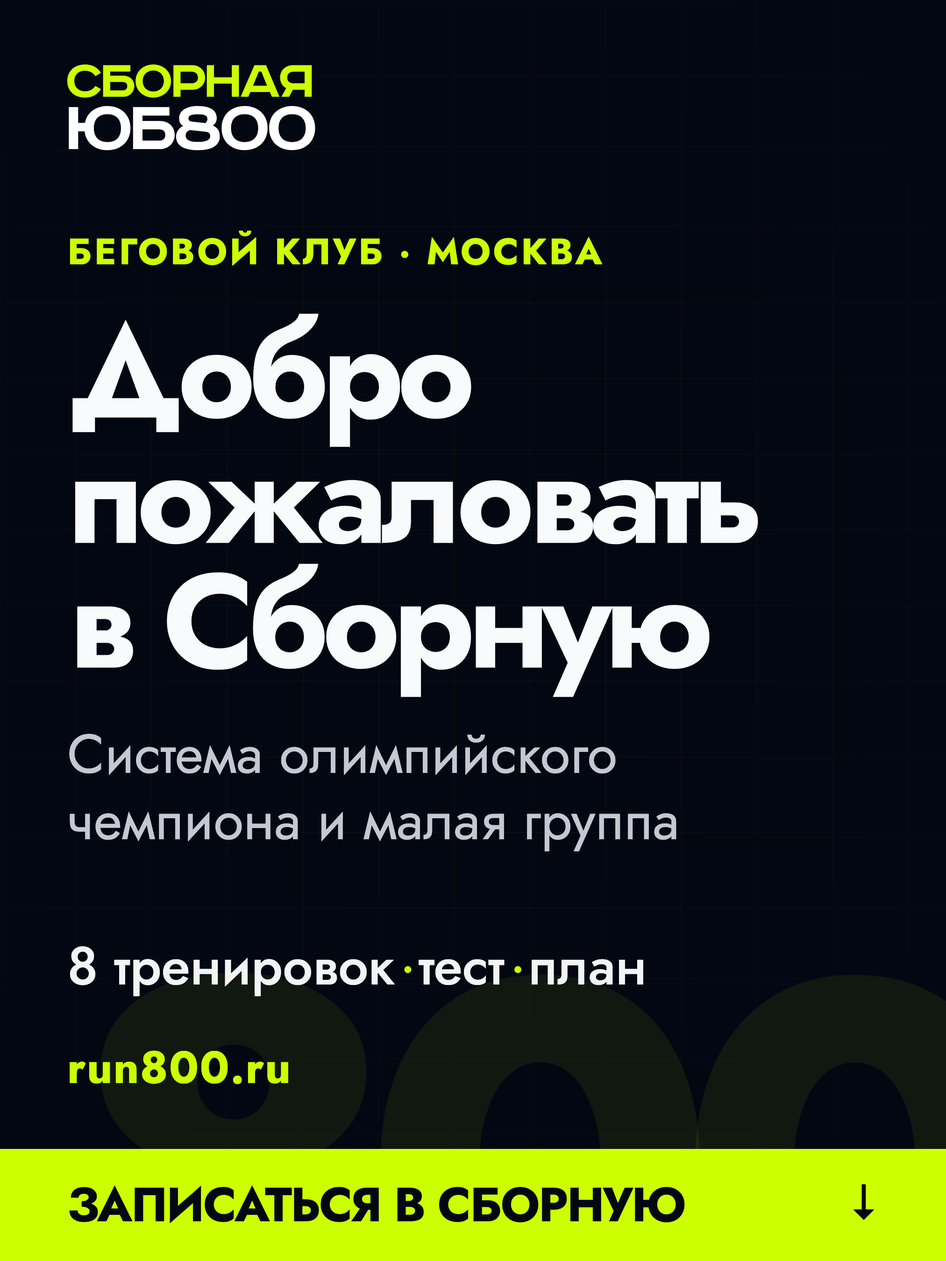
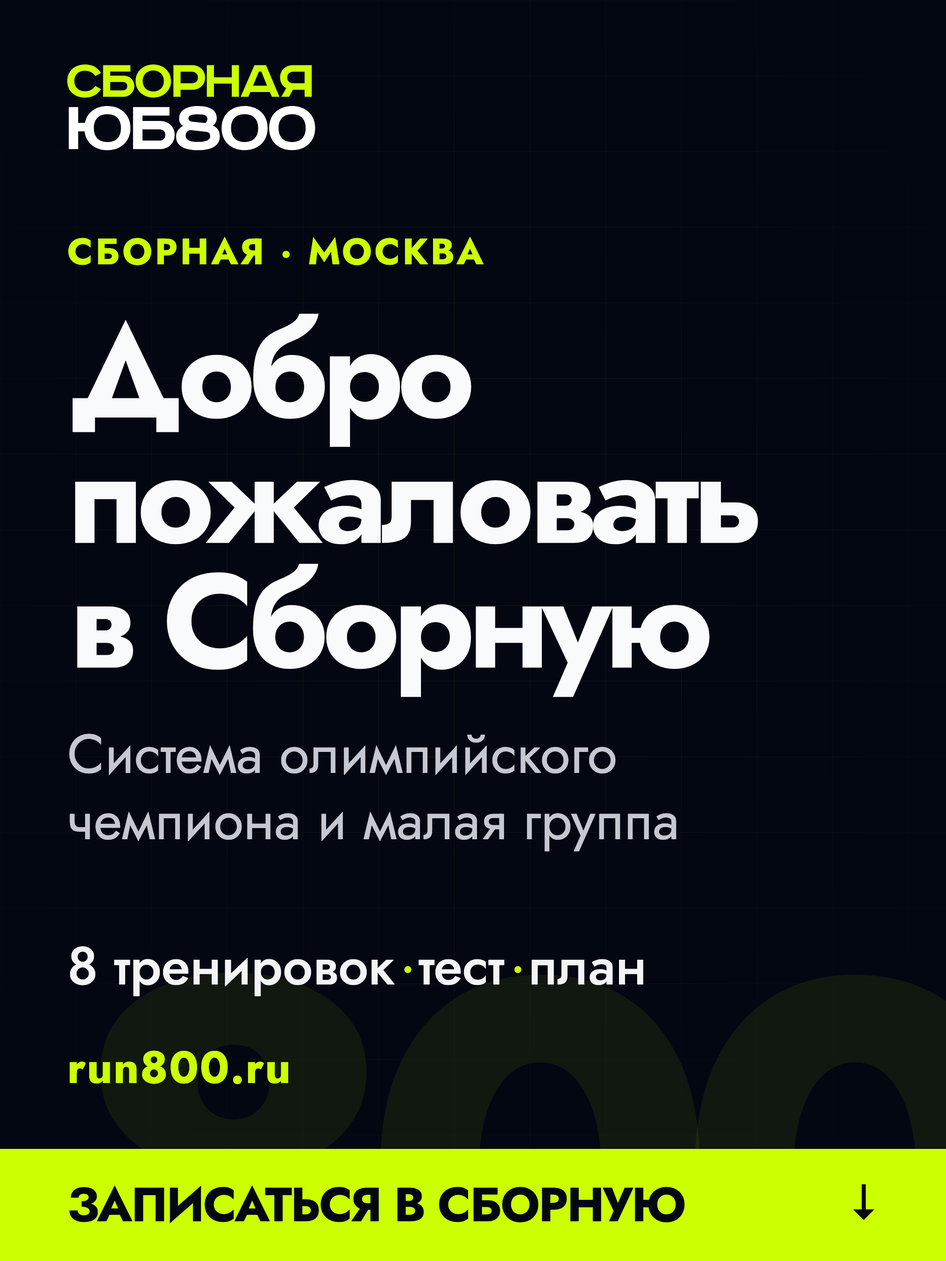
Remove running club wording from brand and docs

Changed region(s): [[0.0622, 0.1867, 0.6533, 0.2178]]

diff --git a/landing/qr-open-run.html b/landing/qr-open-run.html
@@ -123,7 +123,7 @@
   </style>
 </head>
 <body>
-  <p class="eyebrow">ЮБ800 · беговой клуб</p>
+  <p class="eyebrow">ЮБ800 · Сборная</p>
   <h1>21 ноября.<br>Москва</h1>
   <p class="lead">Открытая тренировка для всех: новичков, любителей и опытных. 3–5 км в своём темпе</p>
 

diff --git a/brand/_archive/wordmark-v2/build_wordmark.py b/brand/_archive/wordmark-v2/build_wordmark.py
@@ -49,7 +49,7 @@ def glyph_paths(text, font_path, cap_height, tracking=0):
 
 
 DESC, DESC_WIDTH = glyph_paths(
-    "БЕГОВОЙ КЛУБ ЮРИЯ БОРЗАКОВСКОГО", ARIAL, 10, 2.2
+    "СБОРНАЯ ЮРИЯ БОРЗАКОВСКОГО", ARIAL, 10, 2.2
 )
 
 
@@ -84,7 +84,7 @@ def wordmark(main, accent):
 
 def horizontal(main, accent, desc_color, bg=None):
     bg_rect = f'<rect width="520" height="160" fill="{bg}"/>' if bg else ""
-    return f'''<svg xmlns="http://www.w3.org/2000/svg" width="520" height="160" viewBox="0 0 520 160" role="img" aria-label="ЮБ800 — беговой клуб Юрия Борзаковского">
+    return f'''<svg xmlns="http://www.w3.org/2000/svg" width="520" height="160" viewBox="0 0 520 160" role="img" aria-label="ЮБ800 — Сборная Юрия Борзаковского">
 {bg_rect}
 <g transform="translate(8 8)">{wordmark(main, accent)}</g>
 <g transform="translate(8 132)"><path d="{DESC}" fill="{desc_color}"/></g>
@@ -101,7 +101,7 @@ def compact(main, accent, bg=None):
 
 def stacked(main, accent, desc_color, bg=None):
     bg_rect = f'<rect width="320" height="270" fill="{bg}"/>' if bg else ""
-    return f'''<svg xmlns="http://www.w3.org/2000/svg" width="320" height="270" viewBox="0 0 320 270" role="img" aria-label="ЮБ800 — беговой клуб Юрия Борзаковского">
+    return f'''<svg xmlns="http://www.w3.org/2000/svg" width="320" height="270" viewBox="0 0 320 270" role="img" aria-label="ЮБ800 — Сборная Юрия Борзаковского">
 {bg_rect}
 <g fill="none" stroke-linecap="round" stroke-linejoin="round" stroke-width="16">
   <g transform="translate(48 8)">{yu_b(main)}</g>

diff --git a/brand/_archive/logo-v1/build_logo.py b/brand/_archive/logo-v1/build_logo.py
@@ -52,7 +52,7 @@ def glyph_paths(text, font_path, cap_height, tracking=0):
 
 WORD, WORD_WIDTH = glyph_paths("Б800", ARIAL_BLACK, 100, -2)
 DESC, DESC_WIDTH = glyph_paths(
-    "БЕГОВОЙ КЛУБ ЮРИЯ БОРЗАКОВСКОГО", ARIAL, 10, 2.2
+    "СБОРНАЯ ЮРИЯ БОРЗАКОВСКОГО", ARIAL, 10, 2.2
 )
 
 
@@ -67,7 +67,7 @@ def mark(color, x=0, y=0, scale=1):
 
 def horizontal(mark_color, text_color, desc_color, bg=None):
     bg_rect = f'<rect width="580" height="160" fill="{bg}"/>' if bg else ""
-    return f'''<svg xmlns="http://www.w3.org/2000/svg" width="580" height="160" viewBox="0 0 580 160" role="img" aria-label="ЮБ800 — беговой клуб Юрия Борзаковского">
+    return f'''<svg xmlns="http://www.w3.org/2000/svg" width="580" height="160" viewBox="0 0 580 160" role="img" aria-label="ЮБ800 — Сборная Юрия Борзаковского">
 {bg_rect}
 {mark(mark_color)}
 <g transform="translate(140 0)">
@@ -92,7 +92,7 @@ def compact(mark_color, text_color, bg=None):
 
 def vertical(mark_color, text_color, desc_color, bg=None):
     bg_rect = f'<rect width="320" height="250" fill="{bg}"/>' if bg else ""
-    return f'''<svg xmlns="http://www.w3.org/2000/svg" width="320" height="250" viewBox="0 0 320 250" role="img" aria-label="ЮБ800 — беговой клуб Юрия Борзаковского">
+    return f'''<svg xmlns="http://www.w3.org/2000/svg" width="320" height="250" viewBox="0 0 320 250" role="img" aria-label="ЮБ800 — Сборная Юрия Борзаковского">
 {bg_rect}
 {mark(mark_color, 100, 0)}
 <g transform="translate(28 150) scale(0.7)">

diff --git a/DECISIONS.md b/DECISIONS.md
@@ -176,7 +176,7 @@
 
 ## 2026-10-22 — обновлённая версия логотипа
 
-**Решение:** повторно заменить логотип на актуальный `Temp/run logo.svg` (изменён 22.10, 12:20): двухстрочный лок-ап «БЕГОВОЙ КЛУБ» + «ЮБ800» без трековой эмблемы, SVG 347×112. Файл — `landing/assets/logo.svg`; высоты остались 36/40 px в шапке и 40 px в подвале. Старая версия с треком больше не используется на сайте.
+**Решение:** повторно заменить логотип на актуальный `Temp/run logo.svg` (изменён 22.10, 12:20): двухстрочный лок-ап с прежней верхней надписью и «ЮБ800», без трековой эмблемы, SVG 347×112. Файл — `landing/assets/logo.svg`; высоты остались 36/40 px в шапке и 40 px в подвале. Старая версия с треком больше не используется на сайте.
 
 **Почему:** владелец попросил заменить лого ещё раз на новый файл из `Temp`.
 
@@ -184,7 +184,7 @@
 
 ## 2026-10-22 — новый логотип сайта
 
-**Решение:** заменить wordmark в шапке и подвале на новый лок-ап из `Temp/run logo.svg`: «БЕГОВОЙ КЛУБ» сверху, «ЮБ800» и трековая эмблема. Файл лежит в `landing/assets/logo.svg`; отдельная подпись «беговой клуб» удалена. Высота: 36 px в шапке на мобильном, 40 px на десктопе, 40 px в подвале.
+**Решение:** заменить wordmark в шапке и подвале на новый лок-ап из `Temp/run logo.svg`: прежняя верхняя надпись, «ЮБ800» и трековая эмблема. Файл лежит в `landing/assets/logo.svg`; отдельная подпись удалена. Высота: 36 px в шапке на мобильном, 40 px на десктопе, 40 px в подвале.
 
 **Почему:** прямое требование владельца — поставить актуальный логотип из `Temp`.
 
@@ -264,7 +264,7 @@
 
 ## 2026-10-19 — сетка, фон, футер, якоря, scroll reveal
 
-**Решение:** фото в «Тренировки по всей Москве» заполняет контейнер по высоте и центрируется. Блок цифр получил симметричные отступы 40 сверху/снизу, сетку в контейнере, выравнивание по content band и gap 40. Фон «Кто будет рядом» использует затемнение 0.78–0.9 как «Под вашу цель». Форма заявки растянута по высоте левого контента. Футер перестроен на всю ширину: жёлтый «ЮБ800», рядом «БЕГОВОЙ КЛУБ», второй строкой «Юрия Борзаковского», меню и юртекст по краям. Пункт «Локация» заменён на «Тренировки», секция получила `id="training"`, hash-якоря проверены. Добавлен RND Lab-style scroll reveal: fade-up 26px, 0.8s, stagger 0.1s, IntersectionObserver, reduced-motion без анимации.
+**Решение:** фото в «Тренировки по всей Москве» заполняет контейнер по высоте и центрируется. Блок цифр получил симметричные отступы 40 сверху/снизу, сетку в контейнере, выравнивание по content band и gap 40. Фон «Кто будет рядом» использует затемнение 0.78–0.9 как «Под вашу цель». Форма заявки растянута по высоте левого контента. Футер перестроен на всю ширину: жёлтый «ЮБ800», рядом «СБОРНАЯ», второй строкой «Юрия Борзаковского», меню и юртекст по краям. Пункт «Локация» заменён на «Тренировки», секция получила `id="training"`, hash-якоря проверены. Добавлен RND Lab-style scroll reveal: fade-up 26px, 0.8s, stagger 0.1s, IntersectionObserver, reduced-motion без анимации.
 
 **Почему:** запрос владельца.
 
@@ -320,7 +320,7 @@
 
 ## 2026-10-19 — чистый фон стадиона и футер
 
-**Решение:** из `bg-stadium.svg` убраны футбольное поле и вертикальные линии с номерами 1-8; остались овал и дорожки. В футере убраны «Москва, Лужники», «Проект бегового клуба» заменён на «Беговой клуб», добавлена ссылка «Сайт разработан ToniQ Studio» на `antonminkov.ru`; ссылки меню выстроены в одну строку.
+**Решение:** из `bg-stadium.svg` убраны футбольное поле и вертикальные линии с номерами 1-8; остались овал и дорожки. В футере убраны «Москва, Лужники», прежняя подпись проекта заменена на «Сборная», добавлена ссылка «Сайт разработан ToniQ Studio» на `antonminkov.ru`; ссылки меню выстроены в одну строку.
 
 **Почему:** запросы владельца.
 
@@ -469,7 +469,7 @@
 
 ## 2026-10-18 — логотип в шапке
 
-**Решение:** ЮБ — Jost 700, 800 — Futura-геометрия; лайм; высота 14 px мобильный / 16 px десктоп; подпись «беговой клуб» в шапке.
+**Решение:** ЮБ — Jost 700, 800 — Futura-геометрия; лайм; высота 14 px мобильный / 16 px десктоп; подпись в шапке.
 
 **Почему:** пользователь хотел шрифт ЮБ как у монограммы «ЮБ» в блоке «Команда», логотип в два раза меньше, лайм и вернуть подпись.
 
@@ -508,3 +508,11 @@
 **Решение:** не добавлять имена тренеров, цифры сообщества и медицинские обещания без подтверждения.
 
 **Почему:** доверие бренда важнее красивого лендинга; текущие роли команды описаны без имён.
+
+## 2026-10-29 — не называть проект «беговым клубом»
+
+**Решение:** не использовать формулировку «беговой клуб» в бренде, на сайте, в презентации, боте и документах. Название и дескриптор — **Сборная ЮБ800**, **Сборная Юрия Борзаковского**.
+
+**Почему:** проект — не беговой клуб в привычном смысле, а Сборная с этапами, тестом и системой подготовки. Формулировка размывала позиционирование.
+
+**Что сделано:** фраза убрана из сайта, презентации, приветственной карточки бота, README, PROJECT_STATE, AGENTS, исследований и брендовых файлов.

diff --git a/AGENTS.md b/AGENTS.md
@@ -4,7 +4,7 @@
 
 ## Что это за проект
 
-**ЮБ800** — беговой клуб Юрия Борзаковского в Москве; тренировки проходят в разных локациях. Первый год: 50–80 участников, бюджет до 300 тыс. ₽. Первая открытая пробежка — 21 ноября 2026, платные группы — с декабря. Домен проекта — **`run800.ru`**, зарегистрирован 23.10.2026.
+**ЮБ800** — Сборная Юрия Борзаковского в Москве; тренировки проходят в разных локациях. Первый год: 50–80 участников, бюджет до 300 тыс. ₽. Первая открытая пробежка — 21 ноября 2026, платные группы — с декабря. Домен проекта — **`run800.ru`**, зарегистрирован 23.10.2026.
 
 Production — `https://run800.ru` на VPS: Caddy отдаёт статику из `/srv/site/run800` и проксирует `/api/leads` в `run800-crm` (`127.0.0.1:4174`). HTTPS работает, `www` → 301 на apex. GitHub Pages остаётся предпросмотром. Не ломать существующие сайты на VPS (`antonminkov.ru`, `78.17.16.208.sslip.io`); менять только `/etc/caddy/sites/run800.ru.caddy`.
 
@@ -89,7 +89,7 @@ html-validate index.html privacy.html
 
 - Палитра: графит `#030712`, бумага `#F9FAFB`, лайм `#CCFF00`, дорожка `#1E5AA8`.
 - Типографика: Jost (variable, self-hosted, OFL). В логотипе ЮБ — Jost 700, 800 — прежняя Futura-геометрия.
-- В шапке и подвале — логотип `landing/assets/logo.svg` (лок-ап из `Temp/run logo.svg`): «БЕГОВОЙ КЛУБ» + «ЮБ800» (обновлённая версия без трековой эмблемы); отдельная подпись «беговой клуб» не дублируется. Высота 36 px в шапке на мобильном, 40 px на десктопе; в подвале 40 px.
+- В шапке и подвале — логотип `landing/assets/logo.svg` (лок-ап из `Temp/run logo.svg`): «СБОРНАЯ» + «ЮБ800» (обновлённая версия без трековой эмблемы); отдельная подпись не дублируется. Высота 36 px в шапке на мобильном, 40 px на десктопе; в подвале 40 px.
 - Трек-эмблема `brand/logo-track-yb800.svg` — вторичный знак для соцсетей/мерча, не для шапки.
 - Фокус сайта — клуб, не разовая пробежка. Hero: фото на всю ширину, высота ограничена первым экраном; подзаголовок про систему олимпийского чемпиона и малую группу; CTA «Вступить в клуб» открывает форму на сайте; event-метка из hero убрана. «АФИНЫ 2004 · 800м — 1:44,45» у нижнего края фото слева, вторичным серым, чтобы не конкурировать с лаймовой кнопкой.
 - Лид в hero — 2–3 строки, пунктуация и обещание «система + малая группа» зафиксированы.
@@ -103,7 +103,7 @@ html-validate index.html privacy.html
 - На десктопе плавающей кнопки «Вступить в клуб» нет. На мобильном ≤575 px внизу закреплена кнопка «Вступить в клуб»; форму открывают CTA — header, hero, форматы, how, открытая тренировка и финальный блок. Отправка — same-origin `/api/leads` (`crm/`); `api/lead.js` оставлен как legacy.
 - Форма: для открытой тренировки достаточно имени, контакт по желанию; для платных форматов телефон или почта обязательны. Быстрая запись — `join.html`, QR `open-run-qr.svg` в блоке 21 ноября, печатная версия — `qr-open-run.html`.
 - Финальный блок «Вступить в клуб» с eyebrow «Присоединиться» содержит кнопку «Оставить заявку» и два крупных QR (Telegram и MAX) без карточек, заголовка, подписей ботов, `@run800_bot` и текстовых ссылок «Открыть». MAX ведёт на `https://max.ru`. В поп-апе под формой — те же два QR без карточек и подписей.
-- Футер: контент на всю ширину контейнера; «ЮБ800» жёлтым, рядом «БЕГОВОЙ КЛУБ»; без строки «Юрия Борзаковского» и без адреса; навигация и юртекст по краям; ссылки в строку; «Сайт разработан ToniQ Studio» → `antonminkov.ru` отдельной строкой ниже, нижний отступ футера 24 px.
+- Футер: контент на всю ширину контейнера; «ЮБ800» жёлтым, рядом «СБОРНАЯ»; без строки «Юрия Борзаковского» и без адреса; навигация и юртекст по краям; ссылки в строку; «Сайт разработан ToniQ Studio» → `antonminkov.ru` отдельной строкой ниже, нижний отступ футера 24 px.
 - Верхнее меню: «Форматы», «Команда», «Ближайшая тренировка» (`#event`), «Вопросы». В футере остаётся «Тренировки» (`#training`). Все hash-якоря проверены.
 - Scroll reveal: `[data-reveal]` fade-up на 26px, 0.8s, шаг 0.1s через IntersectionObserver; при `prefers-reduced-motion` контент сразу виден.
 - Тексты лендинга: NBSP после предлогов и союзов; `text-wrap: pretty` для абзацев, `balance` для заголовков; без точки в конце последнего предложения абзаца и заголовка. В юридическом тексте пунктуация сохраняется.

diff --git a/PROJECT_STATE.md b/PROJECT_STATE.md
@@ -38,7 +38,7 @@
 
 ## 1. Что строим
 
-**ЮБ800** — беговой клуб Юрия Борзаковского в Москве; тренировки проходят в разных локациях.
+**ЮБ800** — Сборная Юрия Борзаковского в Москве; тренировки проходят в разных локациях.
 
 - Формат: группы 10–15 человек, пакет 8 тренировок за 4 недели (2 в неделю); неиспользованные сгорают, один перенос.
 - Первый год: 50–80 участников; модель — 70 к концу года.
@@ -89,7 +89,7 @@
 - FAQ: «Если вашего вопроса нет — напишите в группу. Ответим лично». В блоке тренировок нет фразы «Точную площадку пришлём после записи». Примечание в цифрах выровнено по левому краю с вертикальными полосами.
 - Плавающей кнопки «Вступить в клуб» нет. Основные CTA открывают модальное окно с формой: имя, согласие, отправка в `/api/leads` (`crm/`) → CRM; `api/lead.js` остаётся legacy. Для открытой тренировки контакт по желанию, для платных форматов телефон или почта обязательны. В поп-апе под формой — два крупных QR (Telegram и MAX) без карточек, заголовка, подписей ботов и ссылок «Открыть». В финальном блоке «Вступить в клуб» с eyebrow «Присоединиться» — кнопка «Оставить заявку» и те же два QR; `@run800_bot` в интерфейсе не выводится. MAX ведёт на `max.ru`.
 - Блок «Кому подходит»: eyebrow «Три пути. Один клуб», H2 «Кому подходит»; три карточки — «Новичкам / Начать без страха», «Опытным / Бежать на результат», «Топ-спортсменам / Готовиться к стартам»; в каждой kicker, заголовок и пояснение; без списков и кнопок. Под карточками — лаймовая строка про план, группу и тренера. Блок «Зачем клуб» удалён.
-- Футер: контент на всю ширину; «ЮБ800» жёлтым, рядом «БЕГОВОЙ КЛУБ»; без строки «Юрия Борзаковского», без адреса и привязки к одной локации; навигация и юртекст по краям; ссылки в строку; «Сайт разработан ToniQ Studio» → antonminkov.ru отдельной строкой ниже с отступом 64 px; нижний отступ футера 24 px. У элементов футера снят `data-reveal`, чтобы контент был виден всегда.
+- Футер: контент на всю ширину; «ЮБ800» жёлтым, рядом «СБОРНАЯ»; без строки «Юрия Борзаковского», без адреса и привязки к одной локации; навигация и юртекст по краям; ссылки в строку; «Сайт разработан ToniQ Studio» → antonminkov.ru отдельной строкой ниже с отступом 64 px; нижний отступ футера 24 px. У элементов футера снят `data-reveal`, чтобы контент был виден всегда.
 - Верхнее меню: «Форматы», «Команда», «Ближайшая тренировка» (`#event`), «Вопросы». В футере остаётся «Тренировки» (`#training`). Hash-якоря проверены.
 - Scroll reveal: fade-up 26px, 0.8s, stagger 0.1s на IntersectionObserver; reduced-motion — без анимации. Форма — `lead-form.js`, reveal — `script.js`.
 - Тексты лендинга: NBSP после предлогов и союзов; `text-wrap: pretty` в абзацах, `balance` в заголовках; без точки в конце последнего предложения абзаца и заголовка. В юридическом тексте пунктуация сохраняется.
@@ -116,7 +116,7 @@
 
 ### Бренд
 
-- Основной знак — новый лок-ап `landing/assets/logo.svg` (из `Temp/run logo.svg`): «БЕГОВОЙ КЛУБ» + «ЮБ800» (обновлённая версия без трековой эмблемы); в шапке 36 px на мобильном и 40 px на десктопе, в подвале 40 px. Отдельная подпись «беговой клуб» убрана.
+- Основной знак — новый лок-ап `landing/assets/logo.svg` (из `Temp/run logo.svg`): «СБОРНАЯ» + «ЮБ800» (обновлённая версия без трековой эмблемы); в шапке 36 px на мобильном и 40 px на десктопе, в подвале 40 px. Отдельная подпись убрана.
 - Вторичная трек-эмблема — `brand/logo-track-yb800.svg`.
 - Бренд-борд — `brand/index.html`; правила — `brand/README.md`.
 

diff --git a/00_brief.md b/00_brief.md
@@ -12,7 +12,7 @@
 - Выпускник Московской государственной академии физической культуры.
 - Живёт в Жуковском. Участвовал в парковых забегах в Раменском, в «Зелёном марафоне».
 - Медийная личность, широкий круг знакомств.
-- Хочет создать беговой клуб и монетизировать опыт.
+- Хочет создать Сборную и монетизировать опыт.
 
 ### Директор
 - В прошлом чемпион России по лёгкой атлетике.
@@ -70,7 +70,7 @@
 22. **Персоналки:** продаём как дополнение. Клиент платит клубу, клуб оставляет 30–40%, тренер получает остальное. Без отдельного маркетинга, по рекомендациям.
 23. **Роялти звезде:** 5–7% от выручки. Берём 7% для базовой модели. Платим только с поступлений, без фикса.
 24. **Круг директора:** 5–10 человек на старте. Вместе со звездой — 15–30 тёплых контактов. Этого хватает на первую группу, но не на 50–80. Добор — открытые пробежки, рекомендации, партнёрские площадки.
-26. **Звезда:** Юрий Борзаковский. Это не только медийная фигура, но и методолог: главный тренер сборной России и спортивный директор ВФЛА. Позиционирование усиливается с «клуб с чемпионом» до «клуб с системой подготовки». Рабочее название — **ЮБ800**, беговой клуб Юрия Борзаковского.
+26. **Звезда:** Юрий Борзаковский. Это не только медийная фигура, но и методолог: главный тренер сборной России и спортивный директор ВФЛА. Позиционирование усиливается с «клуб с чемпионом» до «клуб с системой подготовки». Рабочее название — **ЮБ800**, Сборная Юрия Борзаковского.
 27. **Айдентика:** ЮБ800 — личный знак Борзаковского, он использовал его раньше. «ЮБ» — инициалы, «800» — олимпийская дистанция. Латинская версия — YB800. Основной бренд ЮБ800, дескриптор «Беговой клуб Юрия Борзаковского».
 28. **Статус знака:** ЮБ800 юридически не оформляли. Нужно письменное согласие Борзаковского, проверка в Роспатенте и регистрация знака на клуб/ИП.
 29. **Владелец знака:** клуб/ИП. Борзаковский даёт согласие и получает роялти. Это упрощает масштабирование и партнёрства.

diff --git a/landing/README.md b/landing/README.md
@@ -1,6 +1,6 @@
 # Лендинг ЮБ800
 
-Статическая страница бегового клуба Юрия Борзаковского. Без фреймворков и внешних зависимостей: шрифт и изображения лежат локально. Заявки уходят в единый Lead Intake API (`crm/`), токены CRM/Telegram не попадают в браузер.
+Статическая страница Сборной Юрия Борзаковского. Без фреймворков и внешних зависимостей: шрифт и изображения лежат локально. Заявки уходят в единый Lead Intake API (`crm/`), токены CRM/Telegram не попадают в браузер.
 
 Текущий фокус — клуб, а не разовая пробежка. Три входа: форма на сайте (основной), Telegram-бот и MAX. Основные CTA открывают модальную форму. Для открытой тренировки достаточно имени, контакт — по желанию; для платных форматов нужен телефон или почта. Для QR-кодов есть отдельная быстрая страница `join.html`. В форме под полями — два крупных QR: Telegram и MAX. Telegram-бот создан и задеплоен: имя `run800`, username `@run800_bot`, ссылка `https://t.me/run800_bot?start=site`. Старый `@YB800_bot` удалён; ссылки и QR обновлены. MAX ведёт на `https://max.ru`; бот клуба появится позже, QR пока временный. На десктопе плавающей кнопки нет: форму открывают CTA на странице. На мобильном ≤575 px внизу закреплена кнопка «Вступить в клуб», подключён `mobile.css`: остаются hero, все пять форматов, финальная заявка и футер, длинные блоки скрыты. Код Telegram-бота — в `../bot/`.
 
@@ -70,7 +70,7 @@ npm run dev
 ## Дизайн
 
 - База: графит `#030712`, текст `#f9fafb`, лайм `#ccff00` для действий.
-- Типографика: Jost (variable, self-hosted, OFL); логотип — лок-ап «БЕГОВОЙ КЛУБ» + «ЮБ800».
+- Типографика: Jost (variable, self-hosted, OFL); логотип — лок-ап «СБОРНАЯ» + «ЮБ800».
 - Hero: фото на всю ширину, 16:9 на десктопе, 4:3 на планшете/мобильном; текст ниже на мобильном.
 - Фоны: `bg-run2.svg` у форматов, `bg7.svg` у команды/тренеров; `open-run-event` у блока 21 ноября.
 - Все цвета, отступы и размеры — в `:root` в `styles.css`.

diff --git a/landing/copy.md b/landing/copy.md
@@ -4,7 +4,7 @@
 
 ## Бриф
 
-- **Бизнес:** ЮБ800 — беговой клуб Юрия Борзаковского в Москве; тренировки проходят в разных локациях.
+- **Бизнес:** ЮБ800 — Сборная Юрия Борзаковского в Москве; тренировки проходят в разных локациях.
 - **Аудитория:** новички 25–45, которые хотят начать бегать, и любители 10–21 км, которым нужен результат и система.
 - **Одно действие:** оставить заявку на сайте; Telegram-бот и MAX-бот (после запуска) — альтернативные каналы; бесплатная пробежка — вторичный способ познакомиться.
 - **Оффер:** бесплатная пробежка, пробная неделя 2 500 ₽, клуб 12 000 ₽ за 8 тренировок (4 недели).
@@ -283,7 +283,7 @@
 
 ## 11. Футер
 
-ЮБ800 — БЕГОВОЙ КЛУБ
+ЮБ800 — СБОРНАЯ
 Верхнее меню: Форматы, Команда, Ближайшая тренировка, Вопросы.
 Футер: Форматы, Команда, Тренировки, Вопросы.
 Политика обработки персональных данных.
@@ -298,7 +298,7 @@
 
 ## 12. SEO и шаринг
 
-- **Title:** ЮБ800 — беговой клуб Юрия Борзаковского в Москве.
+- **Title:** ЮБ800 — Сборная Юрия Борзаковского в Москве.
 - **Description:** Малые группы в Москве. Тренировки по системе олимпийского чемпиона Юрия Борзаковского. Первая пробежка 21 ноября в Москве — бесплатно.
 - **H1:** один, совпадает с hero.
 - **OG:** заголовок, описание, фото 1200×630 — после съёмки.

diff --git a/10_research/2026-10-18_sales_script.md b/10_research/2026-10-18_sales_script.md
@@ -35,7 +35,7 @@
 
 ### Вариант А: человек из круга Борзаковского
 
-> Привет, [Имя]! Мы с Юрием Борзаковским запускаем небольшой беговой клуб в Москве. Формат — маленькие группы, чемпионская школа, без пафоса. 21 ноября проведём открытую пробежку, чтобы познакомиться. Хочу позвать тебя. Без обязательств, просто пробежаться и посмотреть. Рассказать детали?
+> Привет, [Имя]! Мы с Юрием Борзаковским запускаем небольшую Сборную в Москве. Формат — маленькие группы, чемпионская школа, без пафоса. 21 ноября проведём открытую пробежку, чтобы познакомиться. Хочу позвать тебя. Без обязательств, просто пробежаться и посмотреть. Рассказать детали?
 
 ### Вариант Б: человек, который хотел начать бегать
 
@@ -47,7 +47,7 @@
 
 ### Вариант Г: занятой человек
 
-> [Имя], привет. Нужен твой совет на 15 минут, не продажа. Мы запускаем беговой клуб с Борзаковским, хочу понять, что таким людям, как ты, важно. Созвонимся на этой неделе?
+> [Имя], привет. Нужен твой совет на 15 минут, не продажа. Мы запускаем Сборную с Борзаковским, хочу понять, что таким людям, как ты, важно. Созвонимся на этой неделе?
 
 ## 5. Звонок: структура на 10 минут
 

diff --git a/02_concept.md b/02_concept.md
@@ -2,7 +2,7 @@
 
 ## 1. Идея
 
-Не «школа бега» и не «фитнес-клуб». **ЮБ800** — беговой клуб Юрия Борзаковского, место, где любитель получает систему подготовки из большого спорта, титулованных тренеров и круг людей, которые бегут к результату.
+Не «школа бега» и не «фитнес-клуб». **ЮБ800** — Сборная Юрия Борзаковского, место, где любитель получает систему подготовки из большого спорта, титулованных тренеров и круг людей, которые бегут к результату.
 
 Рабочая формула:
 
@@ -55,7 +55,7 @@
 
 ## 6. Бренд
 
-Мастер-бренд: **ЮБ800**. Дескриптор: **беговой клуб Юрия Борзаковского**. Латинская версия: **YB800**.
+Мастер-бренд: **ЮБ800**. Дескриптор: **Сборная Юрия Борзаковского**. Латинская версия: **YB800**.
 
 «ЮБ» — инициалы. «800» — дистанция, на которой он стал олимпийским чемпионом. Это личный знак, а не безликое «клуб имени». Он короткий, уникальный, легко ложится на мерч, номер, логотип и домен.
 

diff --git a/docs/journal/2026-10-29-no-running-club.md b/docs/journal/2026-10-29-no-running-club.md
@@ -1,0 +1,15 @@
+# 29 октября 2026 — убрали формулировку «беговой клуб»
+
+## Что сделано
+
+- Из приветственной карточки бота убрана строка «Беговой клуб · Москва», заменена на «Сборная · Москва».
+- Формулировка удалена из сайта (`qr-open-run.html`), README, `copy.md`, `PROJECT_STATE.md`, `AGENTS.md`, брифа, концепции, исследований, продающих скриптов и брендовых файлов.
+- Исторические записи в `DECISIONS.md` и журнале переформулированы без изменения смысла.
+- Хэштег `#беговойклуб` заменён на `#СборнаяЮБ800`.
+- Презентация: на первом слайде «не школа бега» вместо «не беговой клуб»; PDF пересобран (20 страниц).
+
+## Проверки
+
+- Поиск по репозиторию: вхождений «беговой клуб» / «БЕГОВОЙ КЛУБ» больше нет.
+- Бот: карточка обновлена, тестовая отправка в чат `264751704` — message_id 103.
+- Production: `qr-open-run.html` обновлён, бэкап `/var/backups/run800-qr-open-run-20261029-191459.html`.
